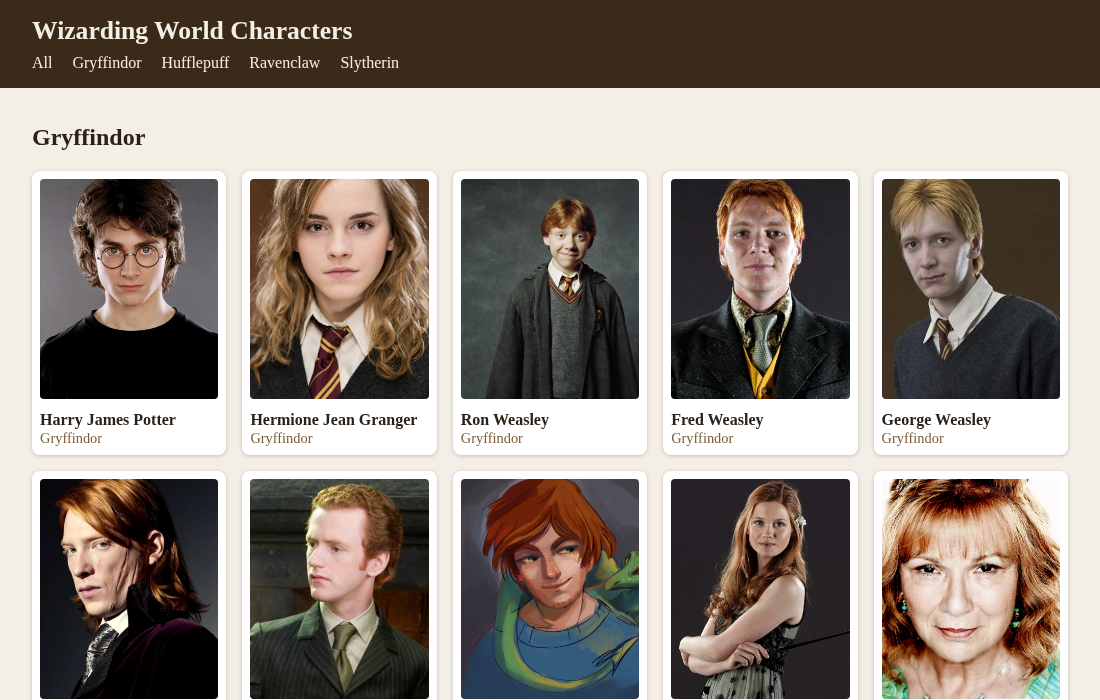
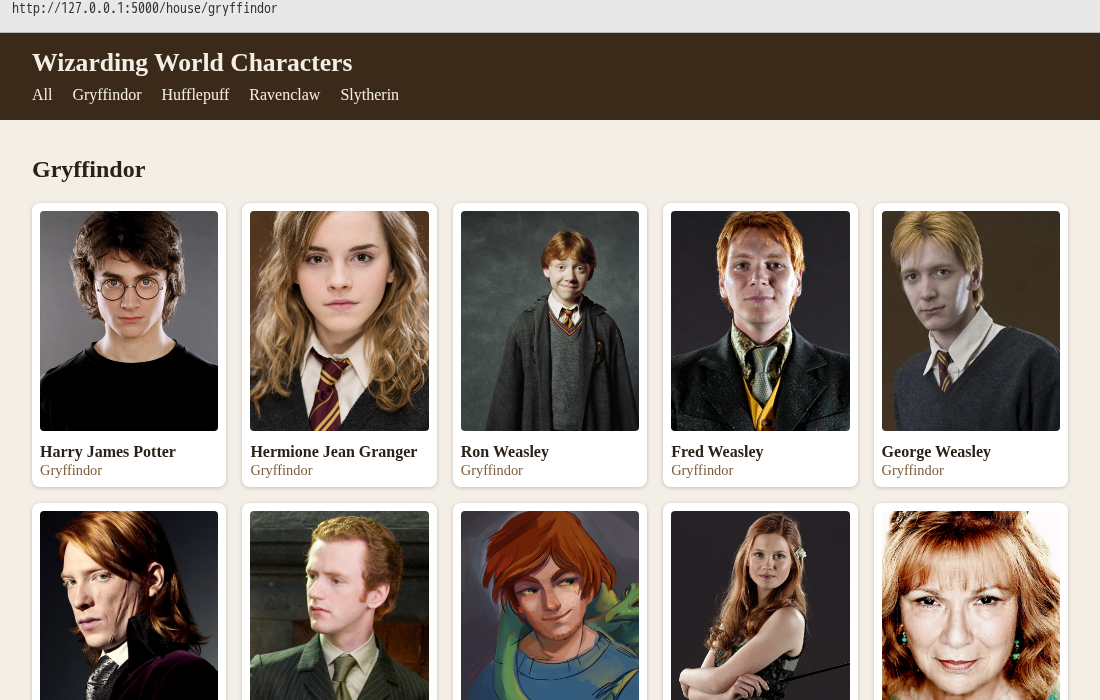
Show the page address in the step 3 screenshot and add an example URL
Task: MIL-004#2

diff --git a/tests/e2e/capture.py b/tests/e2e/capture.py
@@ -14,12 +14,31 @@ IMAGES_TIMEOUT_MS = 60000
 SETTLE_MS = 1000
 API_URL = "https://potterapi-fedeperin.vercel.app/en/characters"
 
-STEPS: list[tuple[str, str]] = [
-    ("step-1-choose-api.png", API_URL),
-    ("step-2-all-characters.png", "http://hp-online:5000/"),
-    ("step-3-house-filter.png", "http://hp-online:5000/house/gryffindor"),
-    ("step-4-character-page.png", "http://hp-online:5000/character/0"),
-    ("step-5-api-unavailable.png", "http://hp-offline:5000/"),
+VISIBLE_ORIGIN = "http://127.0.0.1:5000"
+URL_BAR_HEIGHT_PX = 32
+URL_BAR_SCRIPT = """
+([text, height]) => {
+    const bar = document.createElement("div");
+    bar.textContent = text;
+    bar.style.cssText = [
+        "position:fixed", "top:0", "left:0", "right:0",
+        `height:${height}px`, `line-height:${height}px`,
+        "padding:0 12px", "background:#e8e8e8",
+        "border-bottom:1px solid #bbb", "color:#333",
+        "font:14px monospace", "z-index:2147483647",
+    ].join(";");
+    document.body.appendChild(bar);
+    document.body.style.paddingTop = `${height}px`;
+}
+"""
+
+# (file name, URL to open, whether to draw an address-bar strip with the page path)
+STEPS: list[tuple[str, str, bool]] = [
+    ("step-1-choose-api.png", API_URL, False),
+    ("step-2-all-characters.png", "http://hp-online:5000/", False),
+    ("step-3-house-filter.png", "http://hp-online:5000/house/gryffindor", True),
+    ("step-4-character-page.png", "http://hp-online:5000/character/0", False),
+    ("step-5-api-unavailable.png", "http://hp-offline:5000/", False),
 ]
 
 
@@ -40,6 +59,18 @@ def wait_for_images(page: Page) -> None:
     page.wait_for_timeout(SETTLE_MS)
 
 
+def show_url(page: Page) -> None:
+    """@brief Draw an address-bar strip at the top of the page.
+
+    @details A headless screenshot has no address bar, so the visible form of
+    the address (host 127.0.0.1:5000) is injected and the content pushed down.
+
+    @param page The page that is about to be captured.
+    """
+    path = page.evaluate("location.pathname")
+    page.evaluate(URL_BAR_SCRIPT, [VISIBLE_ORIGIN + path, URL_BAR_HEIGHT_PX])
+
+
 def main(out_dir: str) -> None:
     """@brief Capture every step into `out_dir`.
 
@@ -50,9 +81,11 @@ def main(out_dir: str) -> None:
     with sync_playwright() as playwright:
         browser = playwright.chromium.launch()
         page = browser.new_page(viewport={"width": 1100, "height": 700})
-        for name, url in STEPS:
+        for name, url, with_url in STEPS:
             page.goto(url, wait_until="domcontentloaded", timeout=NAVIGATION_TIMEOUT_MS)
             wait_for_images(page)
+            if with_url:
+                show_url(page)
             page.screenshot(path=str(target / name))
         browser.close()
 

diff --git a/README.md b/README.md
@@ -37,7 +37,7 @@ The site lists characters, filters them by Hogwarts house and shows one characte
 
 ![Step 2: all characters](docs/images/step-2-all-characters.png)
 
-**Step 3. Filter by house.** `/house/<name>` lists one house.
+**Step 3. Filter by house.** `/house/<name>` lists one house, for example `/house/gryffindor`.
 
 ![Step 3: one house](docs/images/step-3-house-filter.png)
 

diff --git a/docs/wiki/Step-3-Filter-by-house.md b/docs/wiki/Step-3-Filter-by-house.md
@@ -4,7 +4,7 @@
 
 ## What this step is
 
-The route `/house/<name>` lists the characters of one house.
+The route `/house/<name>` lists the characters of one house, for example `/house/gryffindor`.
 
 ## What was done
 

diff --git a/docs/wiki/Step-3-Filter-by-house-ms.md b/docs/wiki/Step-3-Filter-by-house-ms.md
@@ -4,7 +4,7 @@
 
 ## Apa langkah ini
 
-Laluan `/house/<name>` menyenaraikan watak satu asrama.
+Laluan `/house/<name>` menyenaraikan watak satu asrama, contohnya `/house/gryffindor`.
 
 ## Apa yang dilakukan
 

diff --git a/docs/wiki/Step-3-Filter-by-house-da.md b/docs/wiki/Step-3-Filter-by-house-da.md
@@ -4,7 +4,7 @@
 
 ## Hvad trinnet er
 
-Ruten `/house/<name>` viser figurerne i ét hus.
+Ruten `/house/<name>` viser figurerne i ét hus, for eksempel `/house/gryffindor`.
 
 ## Hvad jeg gjorde
 
